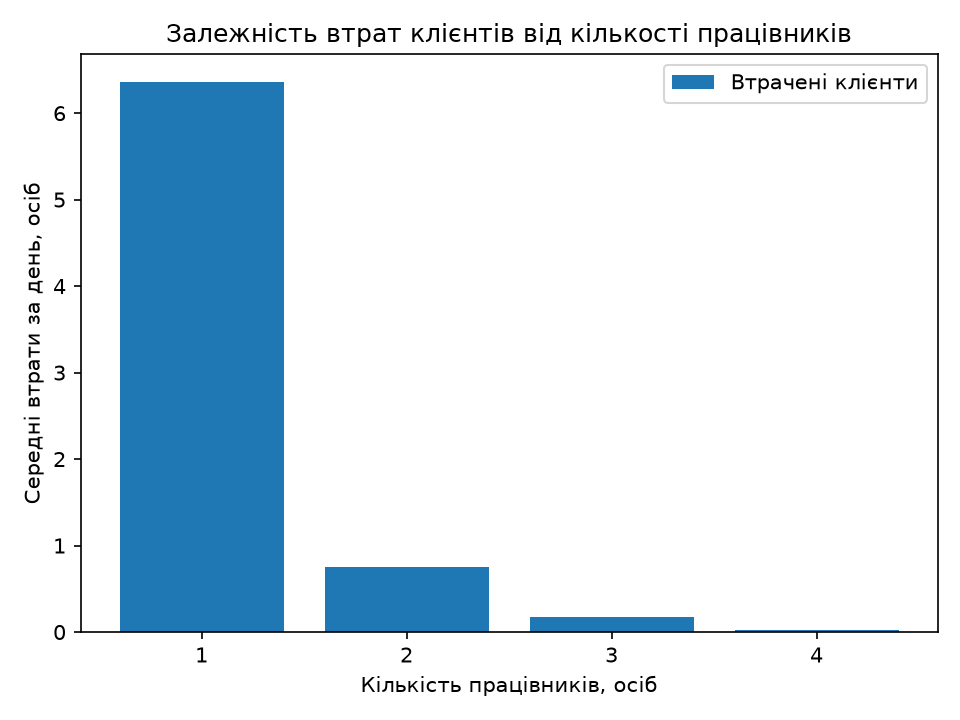
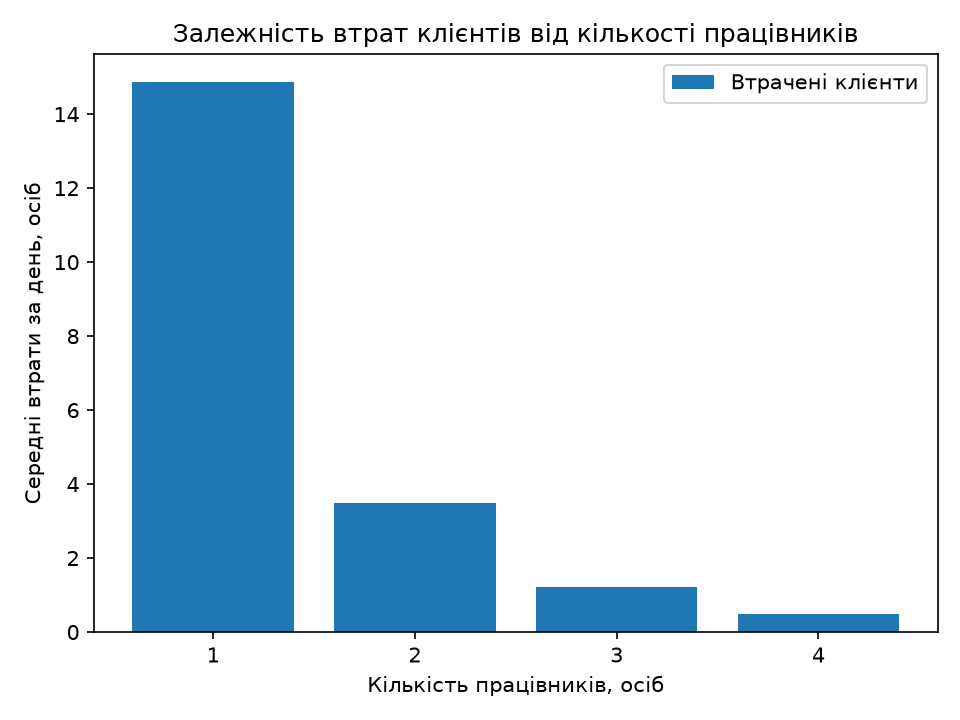
fix(plots): рисунки будуються за λ з періодами дня, а не зі сталою λ=3
Раніше в __main__ було lam=3, тому діаграма втрат не відповідала таблицям
звіту (там λ змінюється за періодами). Тепер використовується lam_for_step.

diff --git a/src/plots.py b/src/plots.py
@@ -7,11 +7,11 @@ import numpy as np
 
 if __package__:
     from .analytics import run_analytics
-    from .input_stream import P_ITEMS, service_time
+    from .input_stream import P_ITEMS, lam_for_step, service_time
     from .sim_core import STEP_MIN, simulate_day
 else:
     from analytics import run_analytics
-    from input_stream import P_ITEMS, service_time
+    from input_stream import P_ITEMS, lam_for_step, service_time
     from sim_core import STEP_MIN, simulate_day
 
 
@@ -87,7 +87,8 @@ def plot_queue_dynamics(
 
 
 if __name__ == "__main__":
-    summary = run_analytics(queue_limit=5, lam=3)
+    # λ за періодами дня - та сама конфігурація, що в звіті (етапи 1-2)
+    summary = run_analytics(queue_limit=5, lam=lam_for_step)
     plot_input_distributions()
     plot_lost_customers(summary)
-    plot_queue_dynamics(C=1, queue_limit=5, lam=3)
+    plot_queue_dynamics(C=1, queue_limit=5, lam=lam_for_step)
